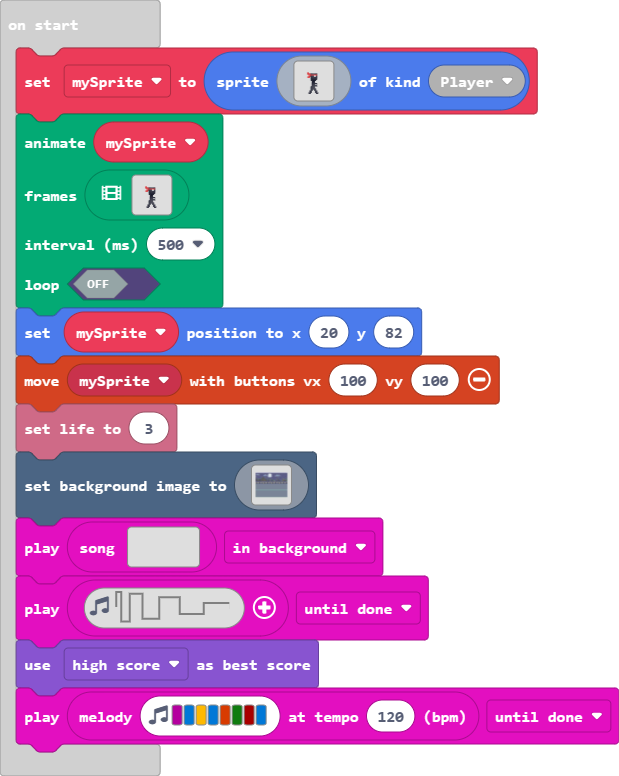
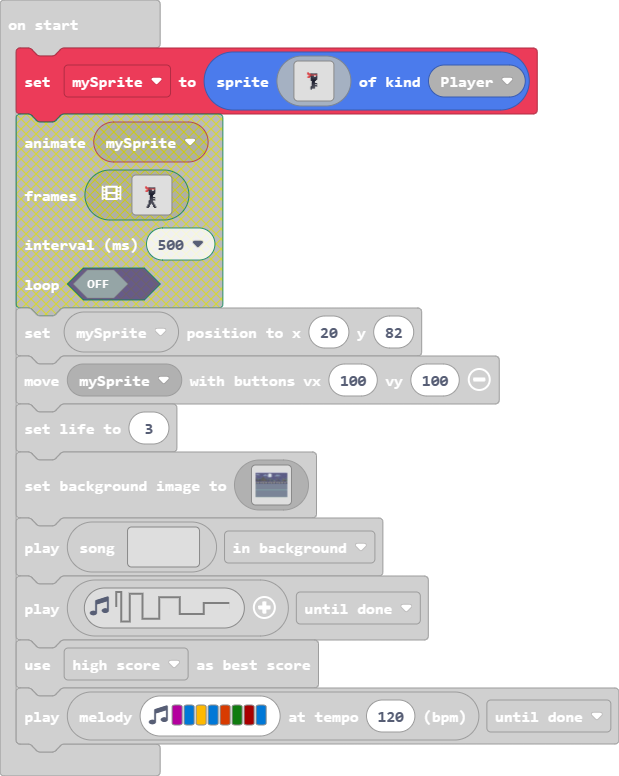
Update main.blocks, main.ts

diff --git a/main.ts b/main.ts
@@ -38,83 +38,15 @@ let mySprite = sprites.create(img`
     .............fffff............
     ............ffff..............
     ............ffff..............
-    ............fffff.............
-    ............ff.ff.............
-    ...........ff...ff............
-    ...........ff...ff............
-    ..........ff.....ff...........
+    ............f.................
+    ..............................
+    ..............................
+    ..............................
+    ..............................
     ..............................
     ..............................
     ..............................
     `, SpriteKind.Player)
-animation.runImageAnimation(
-mySprite,
-[img`
-    ..............................
-    ..............................
-    ..............................
-    ..............................
-    ..............................
-    ..............................
-    ..............................
-    .........3....................
-    .........333ffffff............
-    ...........3333333............
-    ..........33fff11f............
-    .........33.ffffff............
-    ............ffffff............
-    ............ffffff............
-    ............fffff.............
-    .............fff..............
-    .............fff..............
-    .............fffff............
-    .............fff..............
-    .............fffff............
-    ............ffff..............
-    ............ffff..............
-    ............fffff.............
-    ............ff.ff.............
-    ...........ff...ff............
-    ...........ff...ff............
-    ..........ff.....ff...........
-    ..............................
-    ..............................
-    ..............................
-    `,img`
-    ..............................
-    ..............................
-    ..............................
-    ..............................
-    ..............................
-    ..............................
-    ..............................
-    .........3....................
-    .........333ffffff............
-    ...........3333333............
-    ..........33fff11f............
-    .........33.ffffff............
-    ............ffffff............
-    .....3......ffffff............
-    .....3......fffff.............
-    ......3......fff..............
-    .......3.....fff..............
-    ........3....fffff............
-    .........33..fff..............
-    ...........3.fffff............
-    ............ffff..............
-    ............ffff..............
-    ............fffff.............
-    ............ff.ff.............
-    ...........ff...ff............
-    ...........ff...ff............
-    ..........ff.....ff...........
-    ..............................
-    ..............................
-    ..............................
-    `],
-500,
-false
-)
 mySprite.setPosition(20, 82)
 controller.moveSprite(mySprite, 100, 100)
 info.setLife(3)
